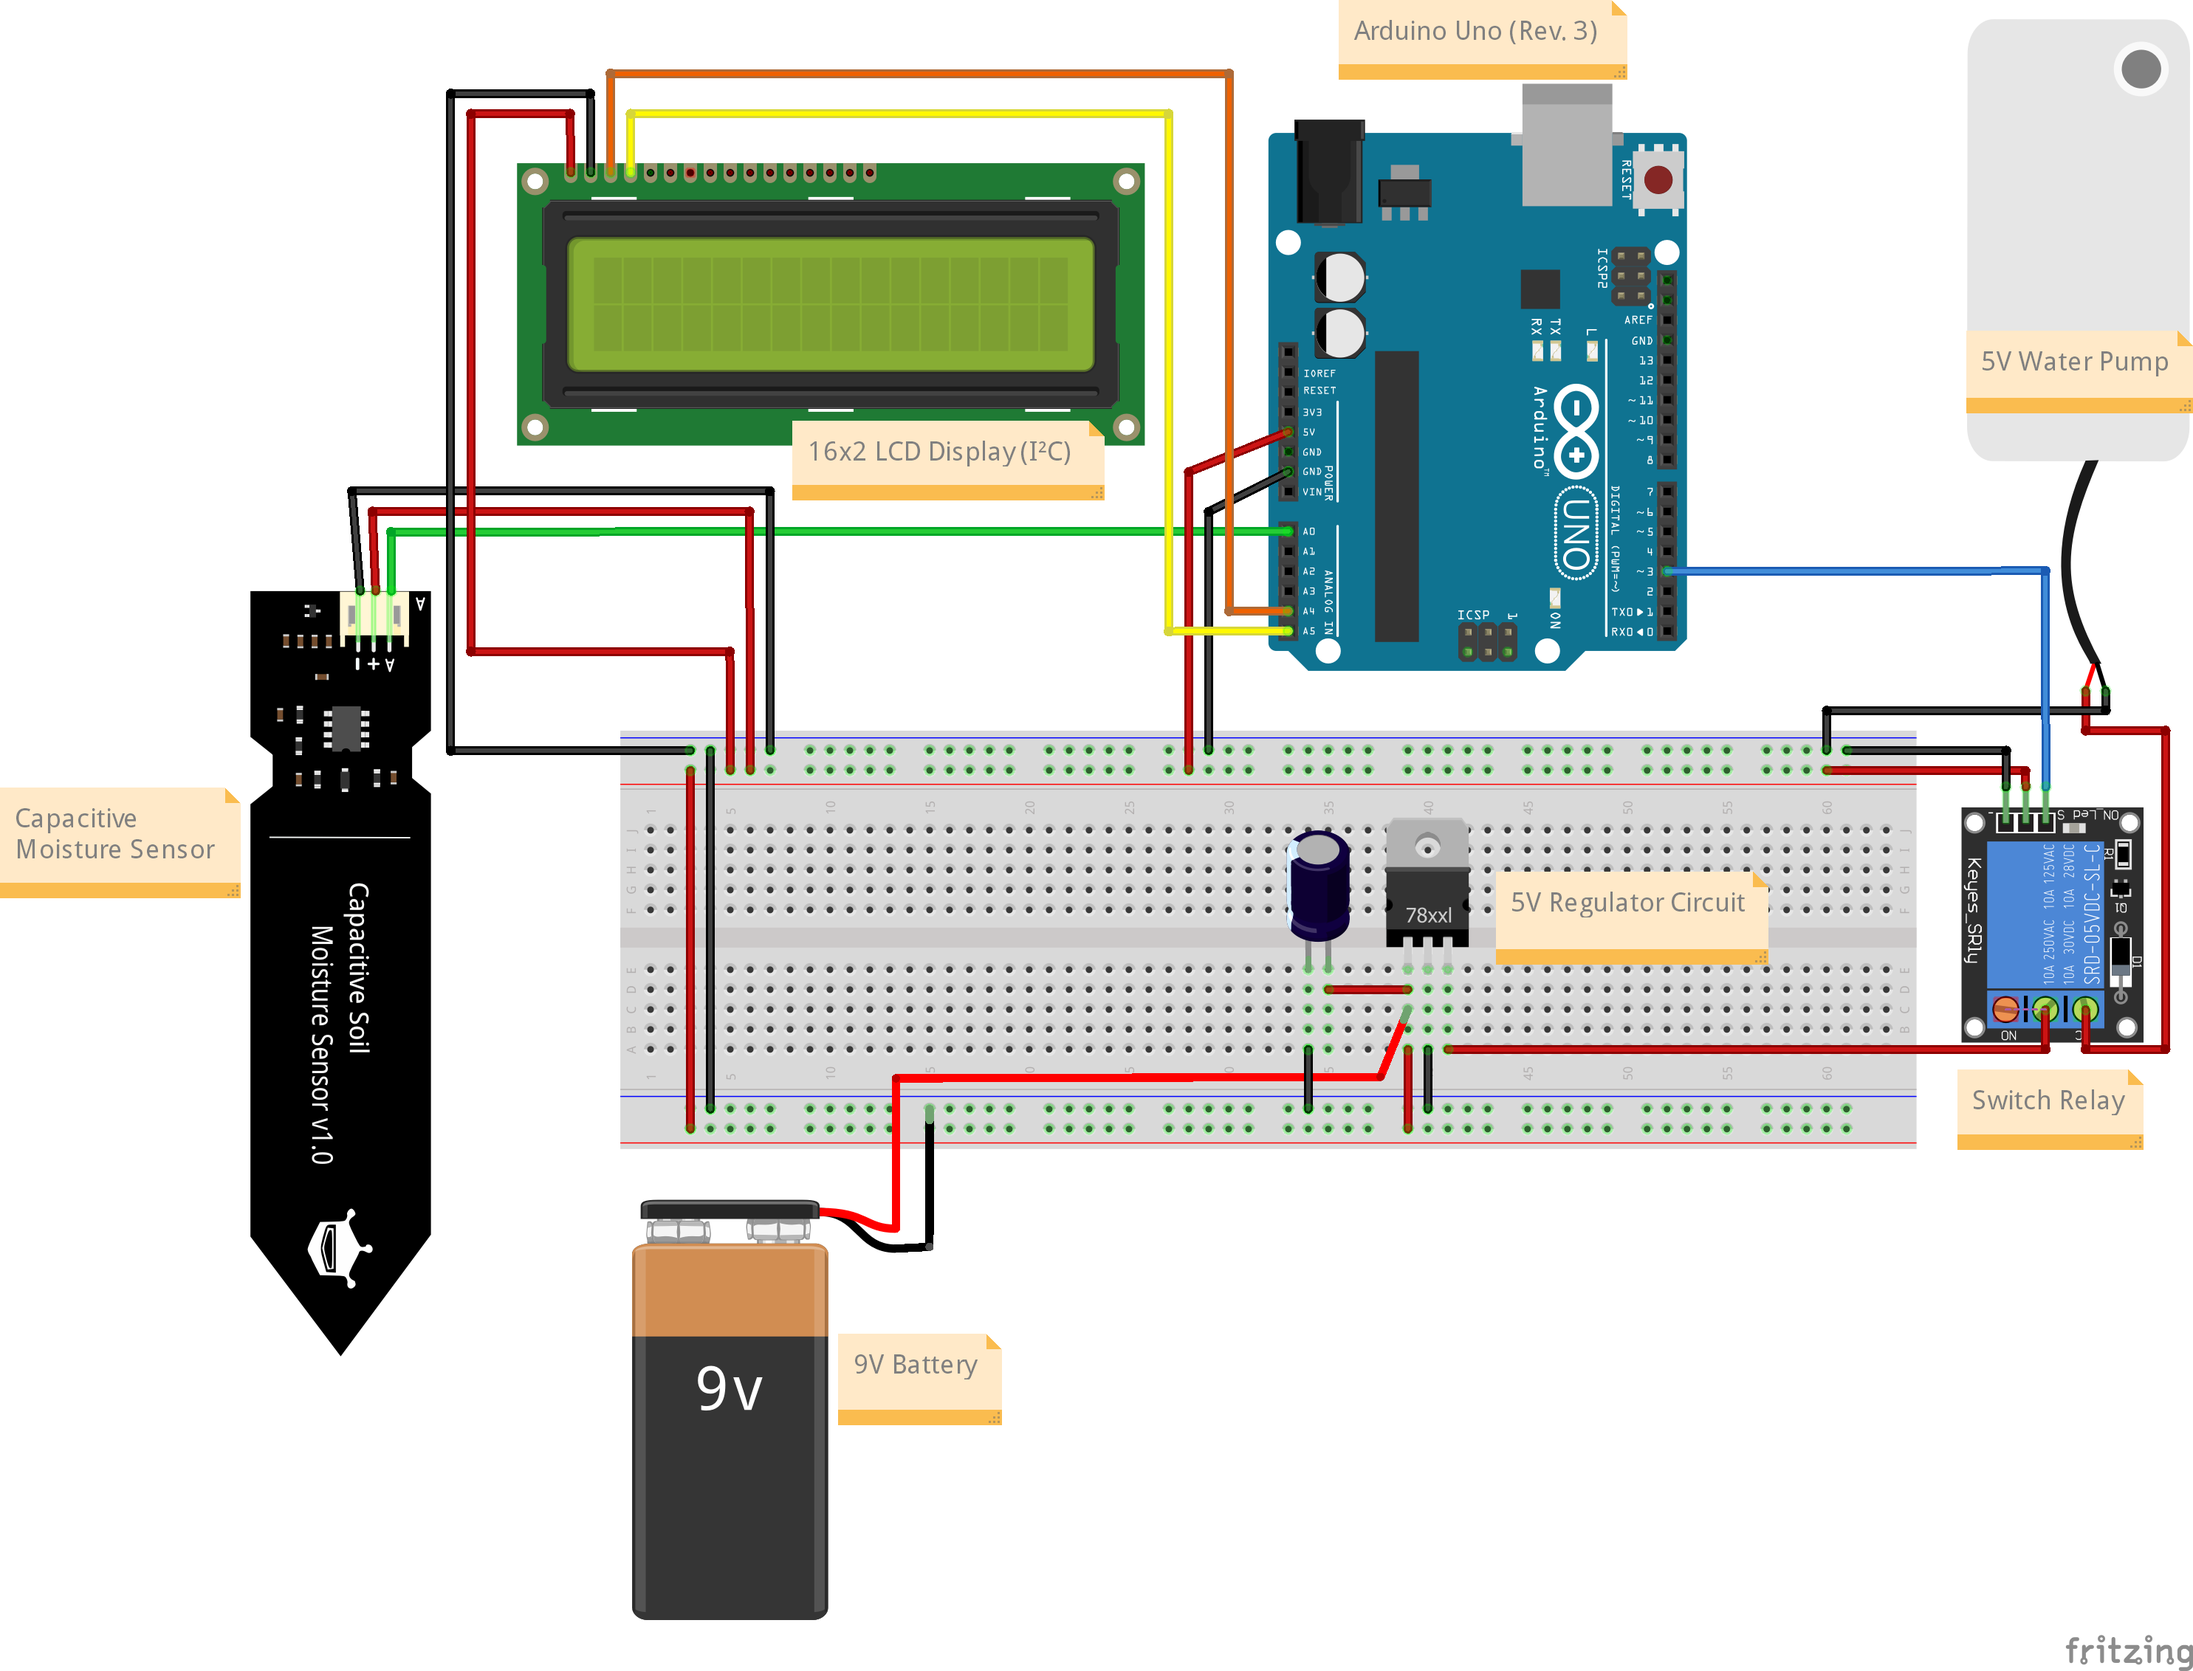
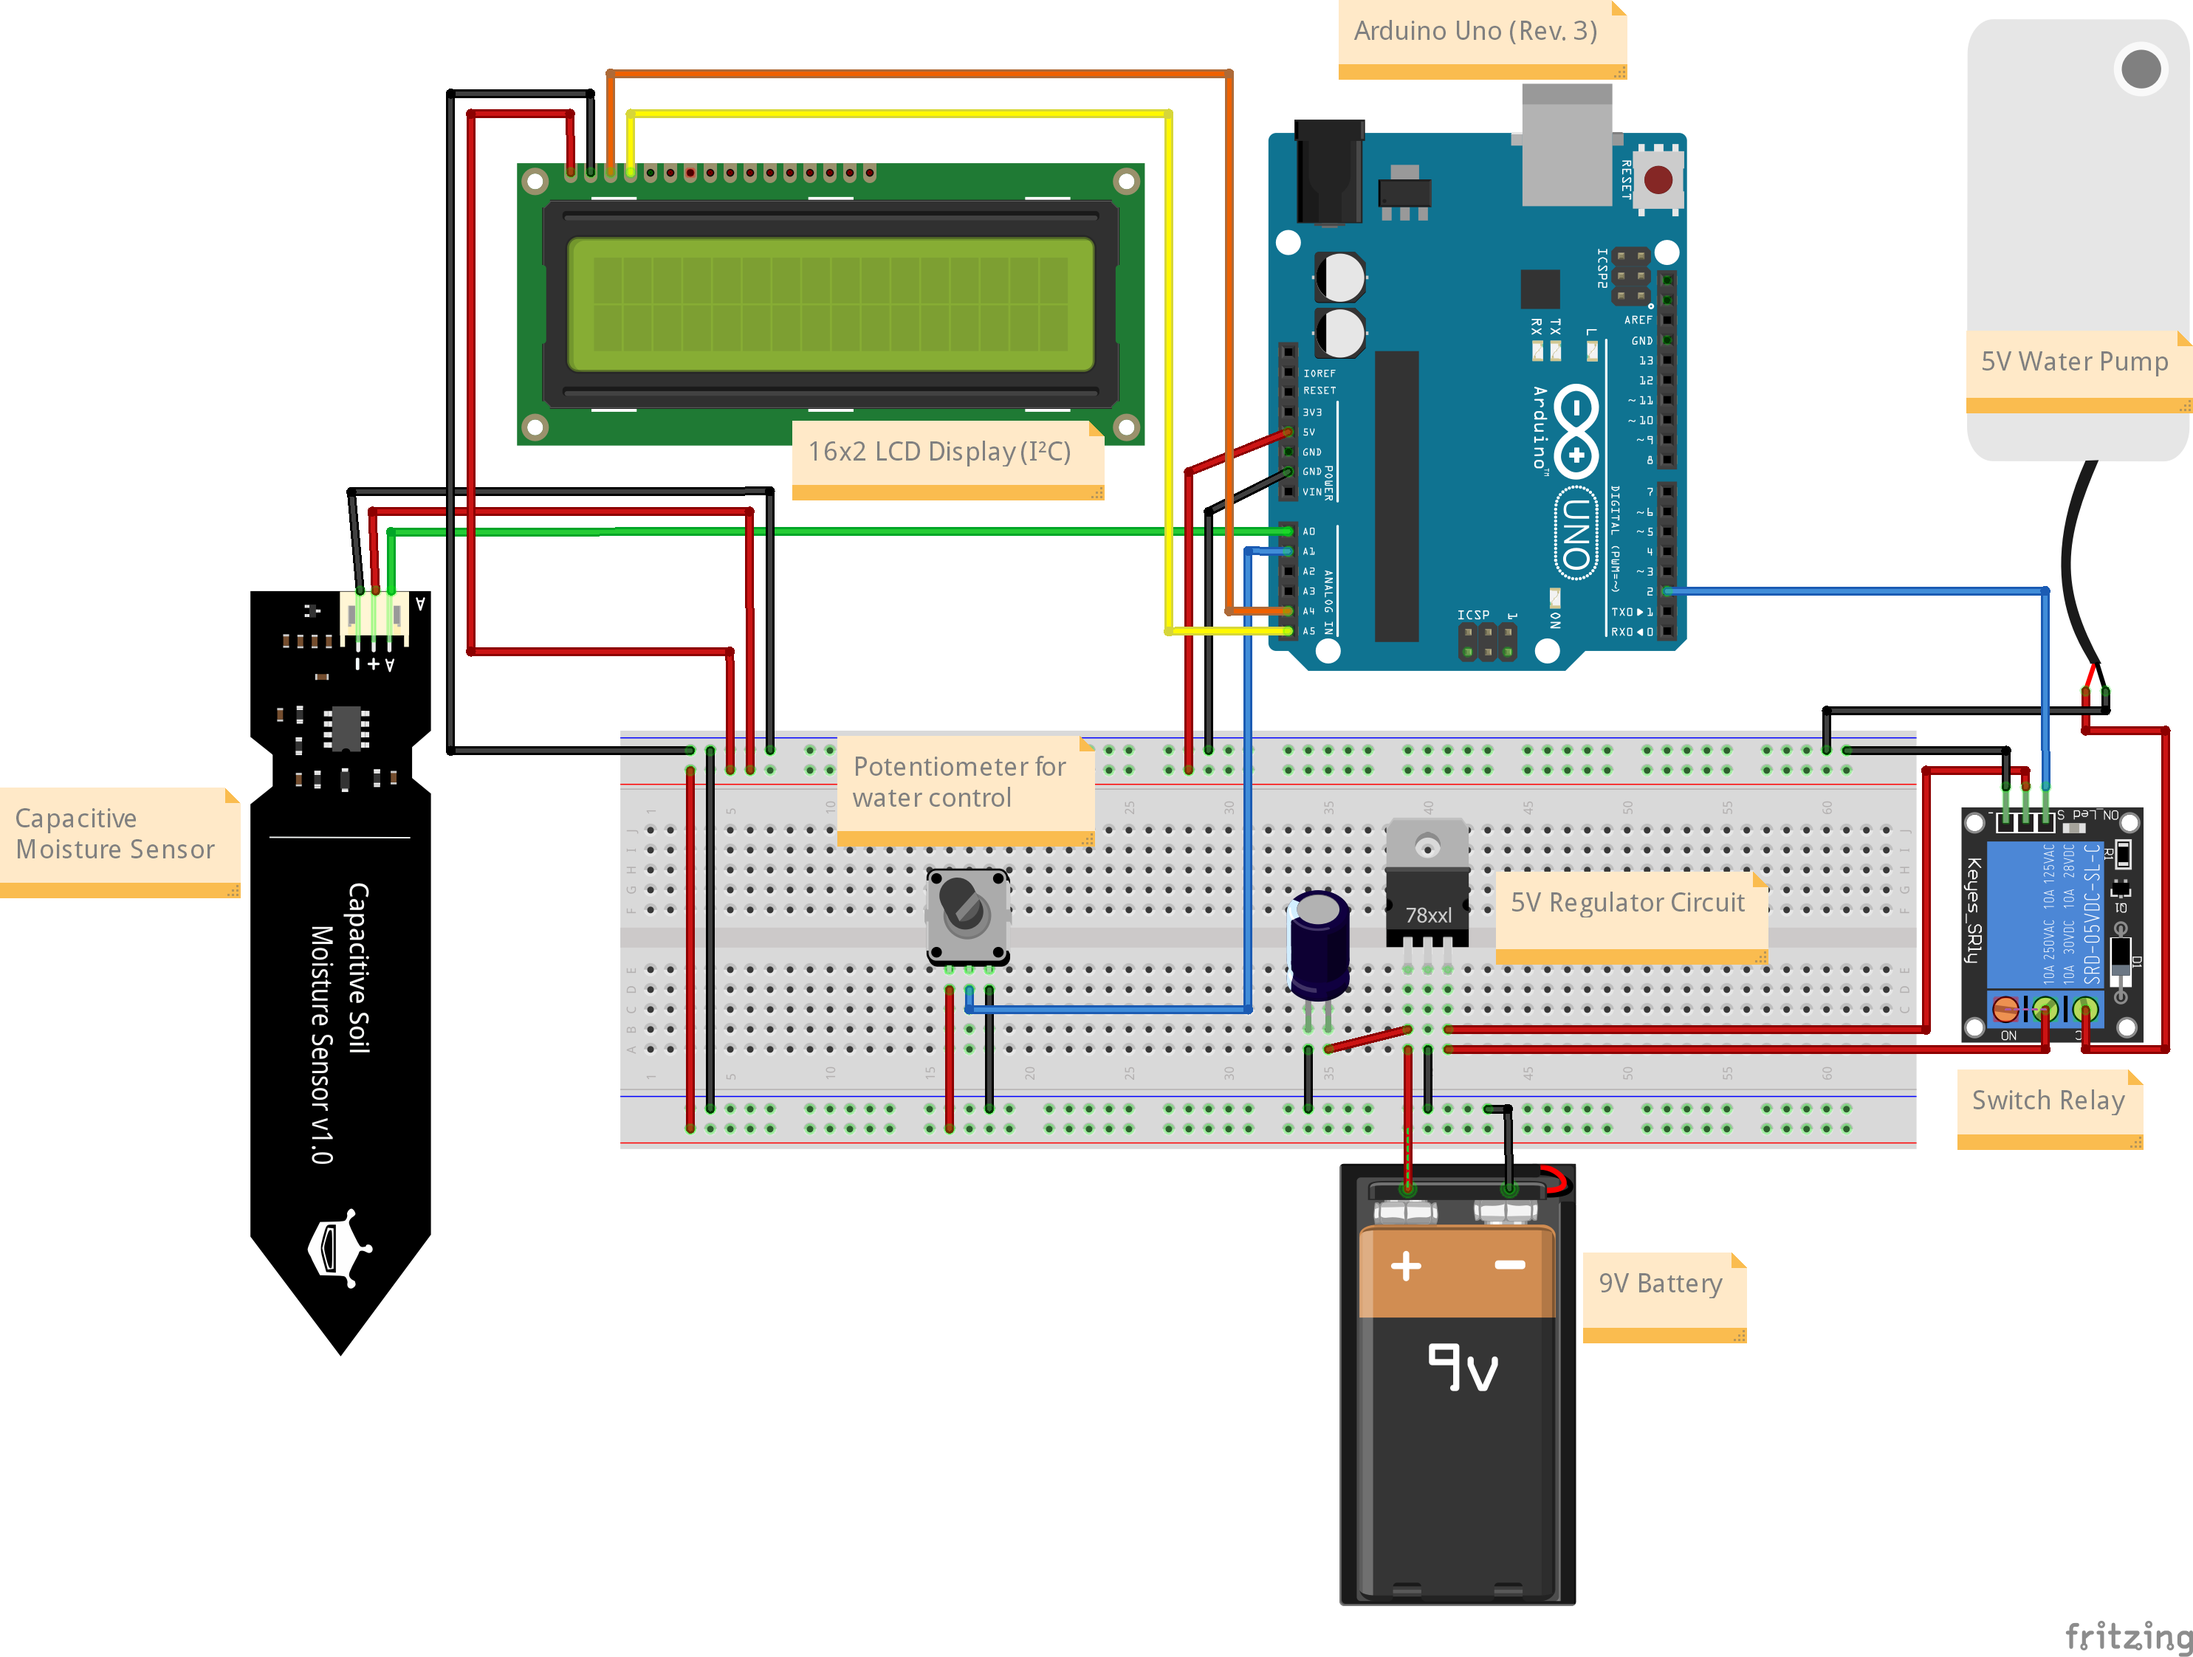
V1.1

diff --git a/src/main.cpp b/src/main.cpp
@@ -4,23 +4,33 @@
 LiquidCrystal_I2C lcd(0x27, 16, 2);
 
 // IN and OUT pins
-int moisture = A0;
-int relay = 3;
-bool plantHappy;
+#define moisture A0
+#define potMeter A1
+#define relay 2
 
 // Values for moisture sensor calibration
-int wet = 440;  // Value for wet sensor
-int dry = 828;  // Value for dry sensor
+#define wet 440
+#define dry 828
 
-// Soil humidity limits in percent
+// Soil humidity and pump time limits in percent
 int minMoisture = 20;
+unsigned long pumpDuration = 3000;
+
 
 // Timing variables
-const int interval = 500;  // Update interval for sensor readings in milliseconds
+unsigned long interval = 1000;  // Update interval for sensor readings in milliseconds
 unsigned long previousMillis = 0;
-int dotCount;
+unsigned long previousPumpTime = 0;
+unsigned long pumpStartTime = 0;
+unsigned long pumpTime = 0;
+unsigned long currentPotVal = 0;
+unsigned long previousPotVal = 0;
 
-// Custom characters
+int dotCount;
+bool plantHappy;
+bool pumpRan = false;
+
+// Heart character
 byte Heart[] = {
   B00000,
   B01010,
@@ -31,7 +41,7 @@ byte Heart[] = {
   B00000,
   B00000
 };
-
+// Smiley character
 byte Smile[] = {
   0b00000,
   0b00000,
@@ -45,8 +55,12 @@ byte Smile[] = {
 
 // Setup
 void setup() {
-  // Set pin modes
+  // Serial init
+  Serial.begin(9600);
+
+  // Prepare pins
   pinMode(moisture, INPUT);
+  pinMode(potMeter, INPUT);
   pinMode(relay, OUTPUT);
   digitalWrite(relay, LOW);
 
@@ -59,39 +73,63 @@ void setup() {
 
 // Main loop
 void loop() {
-  unsigned long currentMillis = millis(); // Read current time
+  // Read current time
+  unsigned long currentMillis = millis();
+
+  // Write to LCD
   lcd.setCursor(0, 0);
-  lcd.print("Moisture: ");  // Print to screen
+  lcd.print("Moisture: ");
 
-  // Update only the numbers on the LCD using millis
+  // Read moisture and convert to percent
+  int soilVal = analogRead(moisture);
+  int percentHumidity = map(soilVal, wet, dry, 100, 0);
+
+  // Read potentiometer and set pumptime
+  currentPotVal = analogRead(potMeter);
+  long timePumped = map(currentPotVal, 0, 1023, 0, 90000);
+  //Serial.println(timePumped);
+
+
+  // Show current watering time on LCD
+  if ((currentPotVal % previousPotVal) > 50) {
+    previousPotVal = currentPotVal;
+
+    // PRINT PUMP DURATION ON SCREEN
+    lcd.setCursor(0, 1);
+    lcd.print("                 ");
+    lcd.setCursor(0, 1);
+    lcd.print("Watering: ");
+    lcd.print(timePumped/1000);
+    lcd.print("s");
+    delay(100);
+  }
+  
+  // Ensure that percentage reading is between 0 and 100
+  if (soilVal >= dry){
+    percentHumidity = 0;
+  }
+  if (soilVal <= wet){
+    percentHumidity = 100;
+  }
+
+  // Timed loop
   if (currentMillis - previousMillis >= interval) {
-    previousMillis = currentMillis;
+    currentPotVal = pumpDuration;
 
-    int soilVal = analogRead(moisture); // Read moisture
-    int percentHumidity = map(soilVal, wet, dry, 100, 0); // Convert to percent
-    
-    // Ensure that percentage reading is between 0 and 100
-    if (soilVal >= dry){
-      percentHumidity = 0;
-    }
-    if (soilVal <= wet){
-      percentHumidity = 100;
-    }
+    // Variables for dot animation and timing
+    dotCount = (dotCount + 1) % 4;
+    previousMillis = currentMillis;
 
     // Display current moisture percentage
     lcd.setCursor(10, 0);
     lcd.print("      ");
     lcd.setCursor(10, 0);
     lcd.print(percentHumidity);
-    lcd.print(" %");
-
-    // Counter for dot animation
-    dotCount = (dotCount + 1) % 4;
-
+    lcd.print("%");
+    
     // Check if watering is needed
     if (percentHumidity <= minMoisture) {
-      plantHappy = false; // Set plant status
-      digitalWrite(relay, HIGH);  // Turn on waterpump
+      plantHappy = true;
 
       // Display watering status
       lcd.setCursor(0, 1);
@@ -108,21 +146,35 @@ void loop() {
           lcd.print(" ");
         }
       }
+        
+      // Start waterpump
+      if (digitalRead(relay) == LOW and !pumpRan) {
+        digitalWrite(relay, HIGH);
+      }
+
+      // Check if pump has run for the specified time
+      if (currentMillis - pumpStartTime >= timePumped) {
+        pumpStartTime = currentMillis;
+        digitalWrite(relay, LOW);
+      }
+      else {
+        pumpRan = true;
+      }
+
     }
     else {
-      // Turn off water pump
-      digitalWrite(relay, LOW);
-
       // Update LCD when plant is happy
-      if(!plantHappy) {
+      if(plantHappy) {
         lcd.setCursor(0, 1);
-        lcd.print("                ");
+        lcd.print("                 ");
         lcd.setCursor(0, 1);
         lcd.print("Happy plant ");
         lcd.write(1);
-        plantHappy = true;
+        //plantHappy = false;
+        pumpRan = false;
+        digitalWrite(relay, LOW);
+        pumpStartTime = 0;
       }
     }
   }
 }
-
